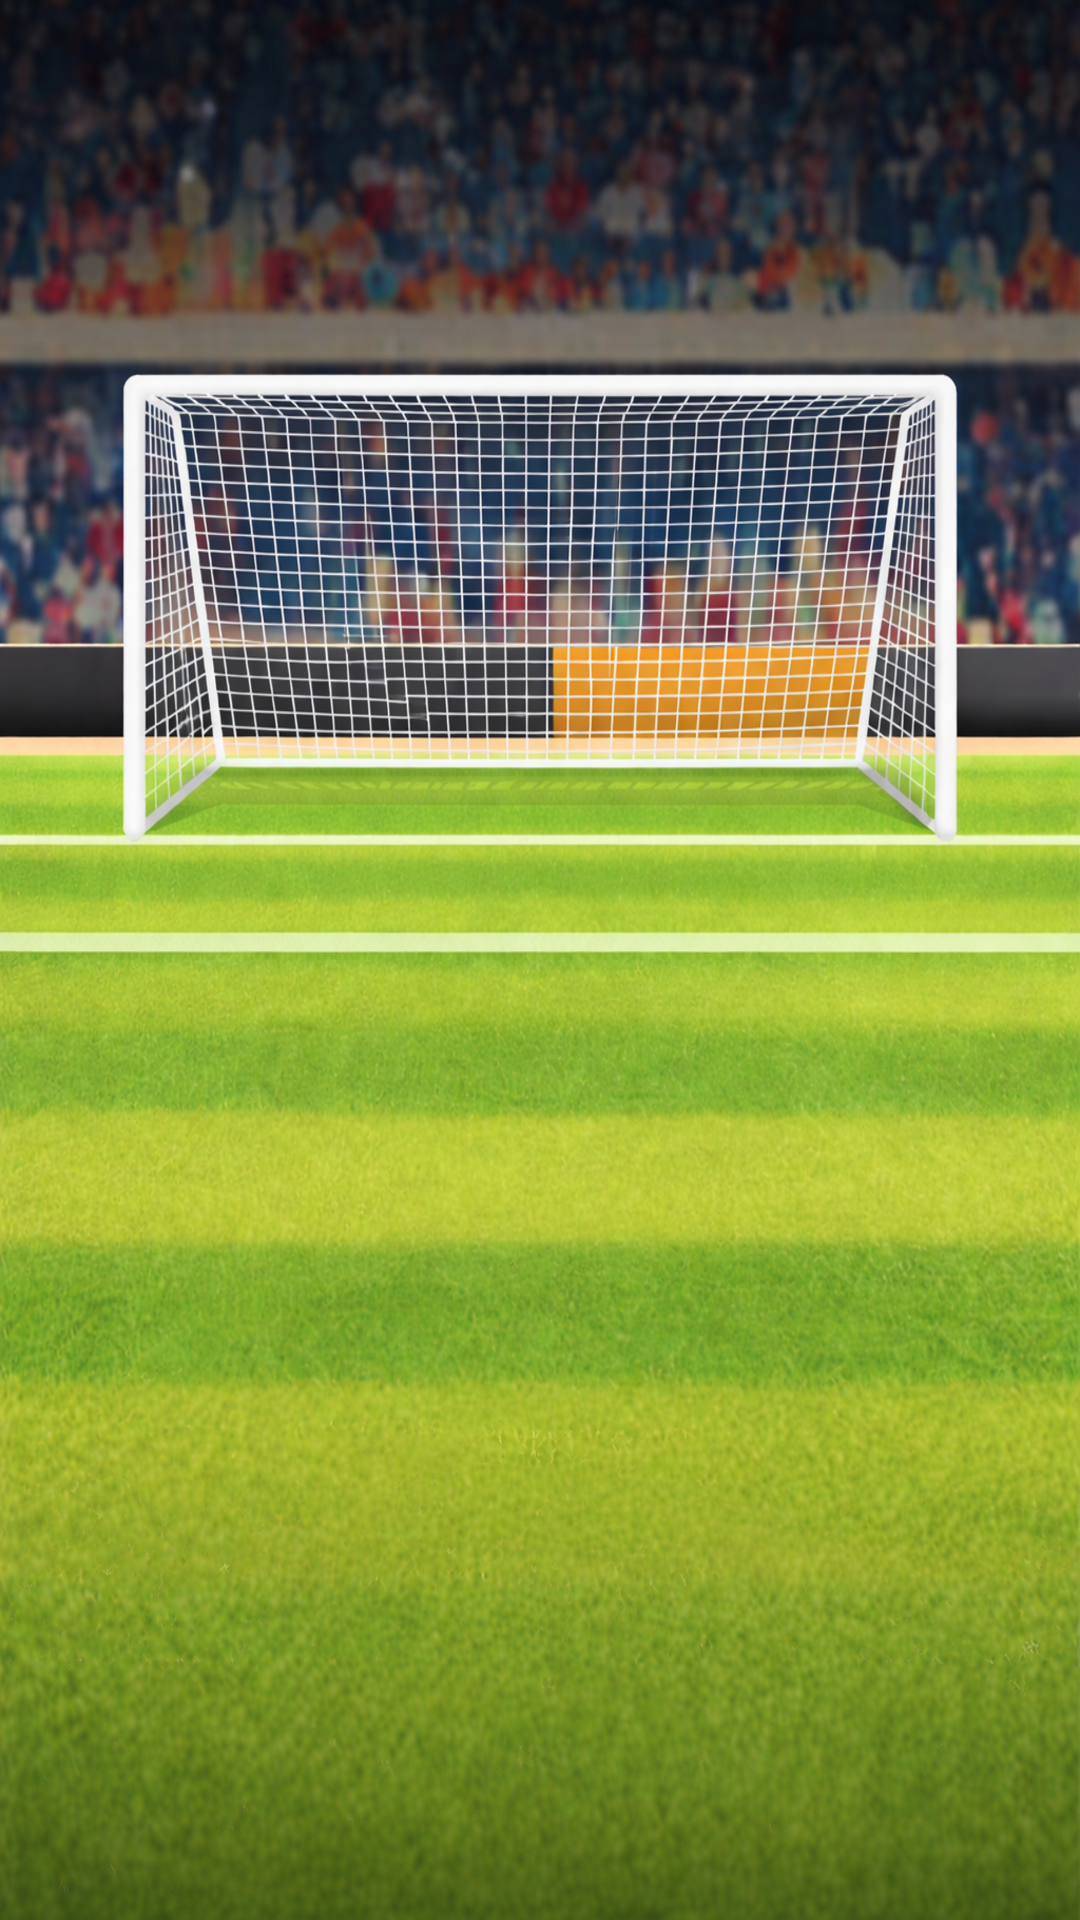
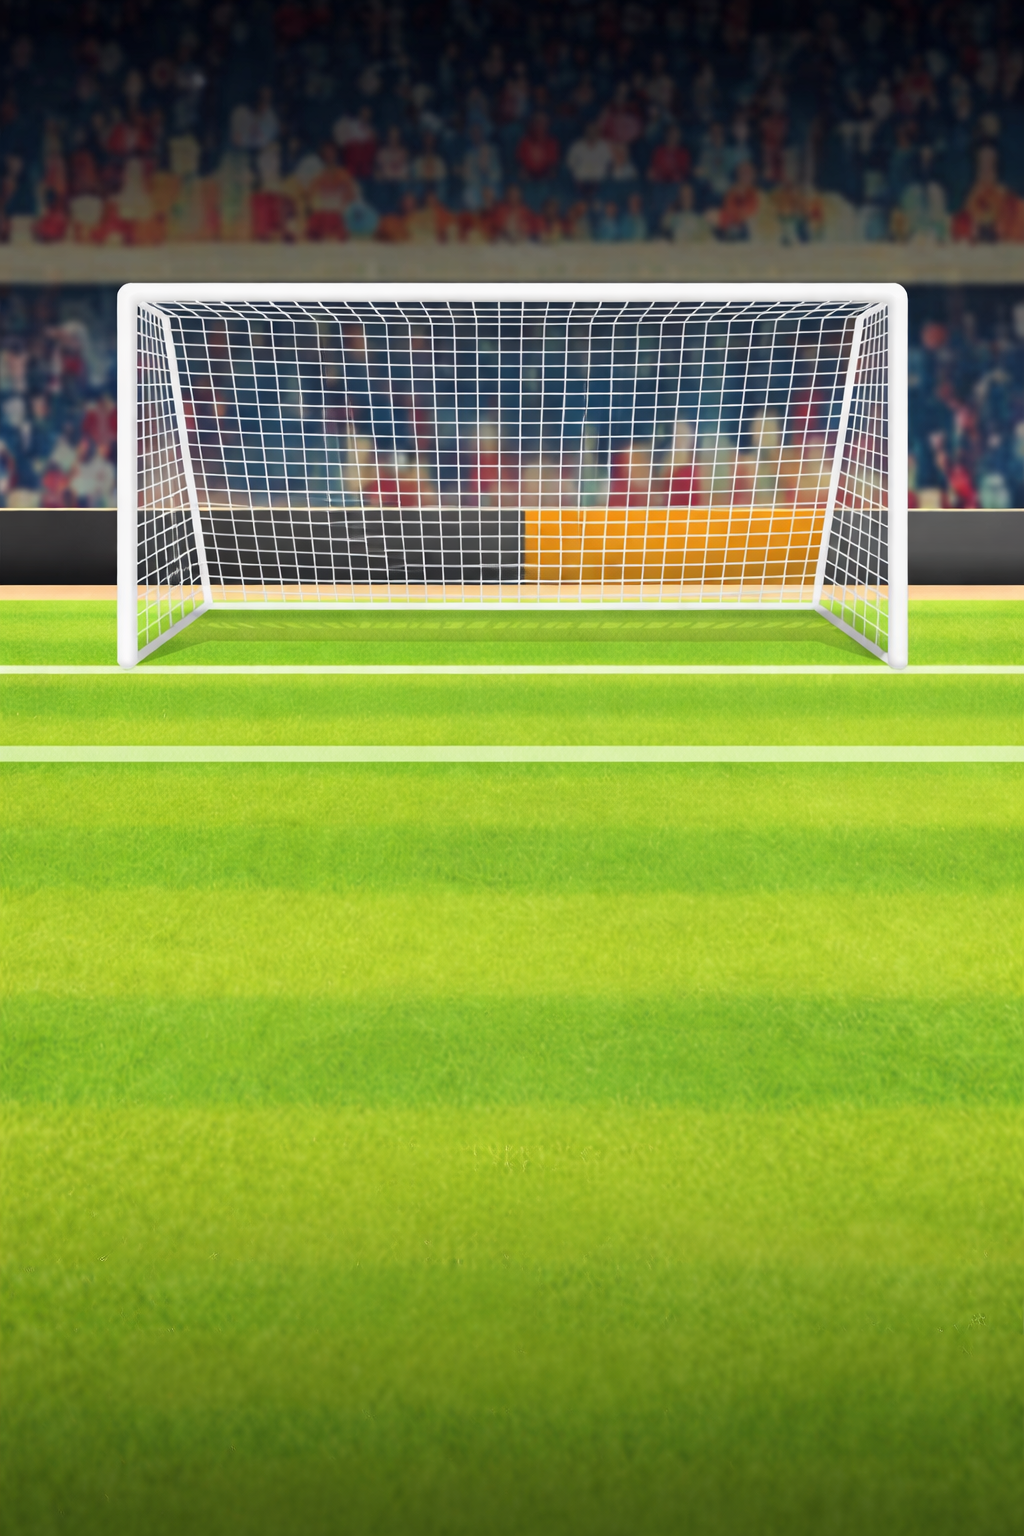
Change UI

diff --git a/src/UI/ball.ts b/src/UI/ball.ts
@@ -30,7 +30,7 @@ export default class Ball extends PIXI.Container {
   
   // Constants
   private readonly GOAL_DISTANCE = 600; // Khoảng cách từ điểm sút đến khung thành
-  private readonly GRAVITY = 1.1;
+    private readonly GRAVITY = 0.9;
   private readonly FRICTION = 0.99;
   private readonly GROUND_Y_OFFSET = 100; // Điều chỉnh mặt đất
   // Collision tuning (Matter.js-like response helpers)
@@ -142,9 +142,9 @@ export default class Ball extends PIXI.Container {
     private _groundLevelY = 0;
         private _powerMultiplier = 1.4; // slightly reduced shot power per request
         // Velocity caps to avoid extremely large forces from long/fast swipes
-        private readonly MAX_VX = 20;
-        private readonly MAX_VY = 20;
-        private readonly MAX_VZ = 40;
+        private readonly MAX_VX = 28;
+        private readonly MAX_VY = 30;
+        private readonly MAX_VZ = 60;
         // Minimum velocity floors so weak swipes still reach the net
         private readonly MIN_VX = 10;
         private readonly MIN_VY = 12;
@@ -922,6 +922,12 @@ export default class Ball extends PIXI.Container {
                       this._state = 'HIT_BAR_DOWN';
                       this._lastPostCollisionTime = now;
                       if (this._debugLogs) console.log('BALL: CROSSBAR_HIT_DOWN', { x:this.x.toFixed(1), y:this.y.toFixed(1), vy:this._vy.toFixed(2), vz:this._vz.toFixed(2), incoming:incoming.toFixed(2) });
+                      if (this._debugLogs) {
+                          try {
+                              const cb2 = this.goal.crossbar.getBounds();
+                              console.log('CROSSBAR_DEBUG', { crossbarTop: cb2.y, crossbarBottom: cb2.y + cb2.height, ballY: this.y, altitude: this._altitude, z: this._z });
+                          } catch (e) {}
+                      }
                       return true;
                   } else {
                       // Regular crossbar deflection (upwards) using normal-based reflection
@@ -946,6 +952,12 @@ export default class Ball extends PIXI.Container {
                           this._forceScaleFrames = 2;
                       } catch (e) {}
                       if (this._debugLogs) console.log('BALL: CROSSBAR_HIT_UP', { x:this.x.toFixed(1), y:this.y.toFixed(1), vy:this._vy.toFixed(2), vz:this._vz.toFixed(2), incoming:incoming.toFixed(2) });
+                      if (this._debugLogs) {
+                          try {
+                              const cb2 = this.goal.crossbar.getBounds();
+                              console.log('CROSSBAR_DEBUG', { crossbarTop: cb2.y, crossbarBottom: cb2.y + cb2.height, ballY: this.y, altitude: this._altitude, z: this._z });
+                          } catch (e) {}
+                      }
                       return true;
                   }
               }

diff --git a/src/UI/goal.ts b/src/UI/goal.ts
@@ -74,7 +74,7 @@ export default class Goal extends PIXI.Container {
     if (!this.goalSprite.texture || !this.goalSprite.texture.width) return;
 
     // Use base design resolution so goal aligns with world container coordinates
-    const targetWidth = (BASE_WIDTH / 2) * 1.55; // Full half-base width
+    const targetWidth = (BASE_WIDTH / 2) * 1.83; // Full half-base width
     const s = targetWidth / this.goalSprite.texture.width;
     this.goalSprite.scale.set(s, s);
     // Scale and position net to match goal (base coords)
@@ -156,7 +156,7 @@ export default class Goal extends PIXI.Container {
     
     // Clear and redraw left post (anchor: top-left)
     this.leftPost.clear();
-    this.leftPost.fill(postColor, 1); // Alpha = 0 to make transparent
+    this.leftPost.fill(postColor, 0); // Alpha = 0 to make transparent
     this.leftPost.rect(0, 0, postWidth, postHeight);
     this.leftPost.fill();
     this.leftPost.pivot.set(0, 0); // anchor top-left
@@ -165,7 +165,7 @@ export default class Goal extends PIXI.Container {
     
     // Clear and redraw right post (anchor: top-right)
     this.rightPost.clear();
-    this.rightPost.fill(postColor, 1); // Alpha = 0 to make transparent
+    this.rightPost.fill(postColor, 0); // Alpha = 0 to make transparent
     this.rightPost.rect(0, 0, postWidth, postHeight);
     this.rightPost.fill();
     this.rightPost.pivot.set(postWidth, 0); // anchor top-right
@@ -174,7 +174,7 @@ export default class Goal extends PIXI.Container {
     
     // Clear and redraw crossbar (anchor: mid-top)
     this.crossbar.clear();
-    this.crossbar.fill(postColor, 1); // Alpha = 0 to make transparent
+    this.crossbar.fill(postColor, 0); // Alpha = 0 to make transparent
     this.crossbar.rect(0, 0, goalBounds.width, crossbarHeight);
     this.crossbar.fill();
     this.crossbar.pivot.set(goalBounds.width / 2, 0); // anchor mid-top

diff --git a/src/app.ts b/src/app.ts
@@ -180,6 +180,16 @@ import SoundController from './ControllUI/SoundController.js';
               bgSprite.anchor.set(0.5, 1);
               bgSprite.x = BASE_WIDTH / 2;
               bgSprite.y = BASE_HEIGHT;
+              // Scale to cover the base design area (cover behavior)
+              const applyCover = () => {
+                try {
+                  const tw = (tex.width && tex.width > 0) ? tex.width : (tex.baseTexture && tex.baseTexture.width) || 1;
+                  const th = (tex.height && tex.height > 0) ? tex.height : (tex.baseTexture && tex.baseTexture.height) || 1;
+                  const s = Math.max(BASE_WIDTH / tw, BASE_HEIGHT / th);
+                  bgSprite!.scale.set(s, s);
+                } catch (e) {}
+              };
+              if (tex.width && tex.width > 0) applyCover(); else try { (tex as any).on('update', applyCover); } catch (e) { setTimeout(applyCover, 50); }
               addToLayer(container, bgSprite, Layer.GROUND);
             }
           } else if (!container.children.includes(bgSprite)) {

diff --git a/src/UI/goalkeeper.ts b/src/UI/goalkeeper.ts
@@ -47,7 +47,7 @@ export default class Goalkeeper extends PIXI.Container {
   
   // Set initial position (called when positioning goalkeeper)
   public setInitialPosition(x: number, y: number) {
-    this._initialPosition = { x, y };
+    this._initialPosition = { x, y: 0.9 * y };
     this.x = x;
     this.y = y;
   }
